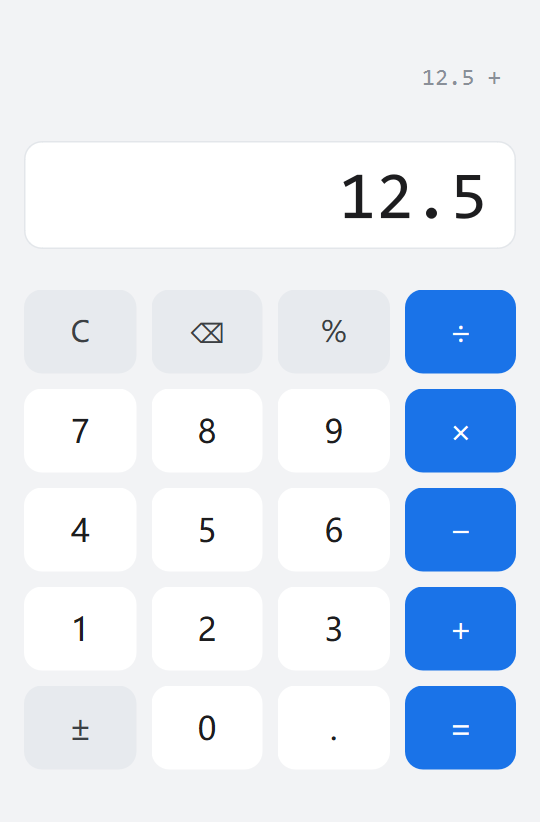
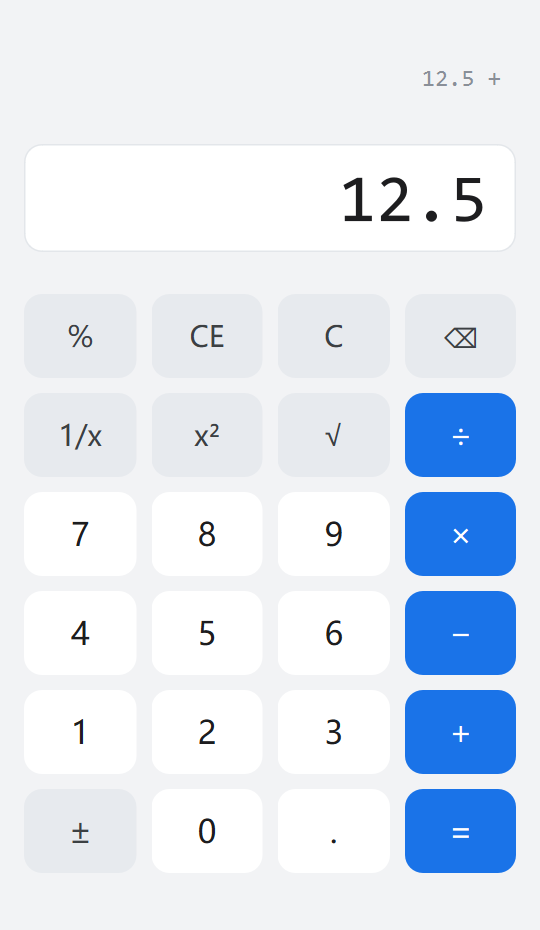
补上倒数、平方、开方和 CE 键

diff --git a/Calculator/tools/Demo/main.cpp b/Calculator/tools/Demo/main.cpp
@@ -32,7 +32,7 @@ const std::vector<Step> kScript = {
     {900,  false, 0, "pushButton_Add"},
     {900,  false, 0, "pushButton_3"},
     {900,  false, 0, "pushButton_Equal"},
-    {3500, false, 0, "pushButton_Clear"},
+    {2500, false, 0, "pushButton_Clear"},
     // ---- 键盘：45.6 − 12.3 = 33.3 ----
     {1500, true, Qt::Key_4, nullptr},
     {600,  true, Qt::Key_5, nullptr},
@@ -44,13 +44,13 @@ const std::vector<Step> kScript = {
     {600,  true, Qt::Key_Period, nullptr},
     {600,  true, Qt::Key_3, nullptr},
     {800,  true, Qt::Key_Return, nullptr},
-    {3500, false, 0, "pushButton_Clear"},
+    {2500, false, 0, "pushButton_Clear"},
     // ---- 键盘：9 × 6 = 54 ----
     {1200, true, Qt::Key_9, nullptr},
     {700,  true, Qt::Key_Asterisk, nullptr},
     {700,  true, Qt::Key_6, nullptr},
     {700,  true, Qt::Key_Return, nullptr},
-    {3000, false, 0, "pushButton_Clear"},
+    {2500, false, 0, "pushButton_Clear"},
     // ---- 退格：12345 → 123 ----
     {1200, false, 0, "pushButton_1"},
     {500,  false, 0, "pushButton_2"},
@@ -65,7 +65,7 @@ const std::vector<Step> kScript = {
     {700,  false, 0, "pushButton_Divide"},
     {700,  false, 0, "pushButton_0"},
     {800,  false, 0, "pushButton_Equal"},
-    {3500, false, 0, "pushButton_Clear"},
+    {2500, false, 0, "pushButton_Clear"},
     // ---- 连续运算：2 + 3 + 4 = 9 ----
     {1500, false, 0, "pushButton_2"},
     {700,  false, 0, "pushButton_Add"},
@@ -73,7 +73,7 @@ const std::vector<Step> kScript = {
     {900,  false, 0, "pushButton_Add"},
     {700,  false, 0, "pushButton_4"},
     {800,  false, 0, "pushButton_Equal"},
-    {3000, false, 0, "pushButton_Clear"},
+    {2500, false, 0, "pushButton_Clear"},
     // ---- 连按等号：2 + 3 = 5, = 8, = 11 ----
     {1500, false, 0, "pushButton_2"},
     {700,  false, 0, "pushButton_Add"},
@@ -81,18 +81,49 @@ const std::vector<Step> kScript = {
     {800,  false, 0, "pushButton_Equal"},
     {1200, false, 0, "pushButton_Equal"},
     {1200, false, 0, "pushButton_Equal"},
-    {3000, false, 0, "pushButton_Clear"},
+    {2500, false, 0, "pushButton_Clear"},
     // ---- 重复小数点：7 . . 8 → 7.8 ----
     {1500, false, 0, "pushButton_7"},
     {800,  false, 0, "pushButton_Point"},
     {800,  false, 0, "pushButton_Point"},
     {800,  false, 0, "pushButton_8"},
-    {3500, false, 0, "pushButton_Clear"},
+    {2500, false, 0, "pushButton_Clear"},
+    // ---- 科学键：81 √ = 9 ----
+    {2000, false, 0, "pushButton_8"},
+    {500,  false, 0, "pushButton_1"},
+    {800,  false, 0, "pushButton_Sqrt"},
+    {2200, false, 0, "pushButton_Clear"},
+    // ---- 科学键：9 x² = 81 ----
+    {1200, false, 0, "pushButton_9"},
+    {800,  false, 0, "pushButton_Square"},
+    {2200, false, 0, "pushButton_Clear"},
+    // ---- 科学键：8 1/x = 0.125 ----
+    {1200, false, 0, "pushButton_8"},
+    {800,  false, 0, "pushButton_Inverse"},
+    {2200, false, 0, "pushButton_Clear"},
+    // ---- CE：12 + 3 CE 4 = 16 ----
+    {1200, false, 0, "pushButton_1"},
+    {500,  false, 0, "pushButton_2"},
+    {700,  false, 0, "pushButton_Add"},
+    {500,  false, 0, "pushButton_3"},
+    {1000, false, 0, "pushButton_ClearEntry"},
+    {700,  false, 0, "pushButton_4"},
+    {700,  false, 0, "pushButton_Equal"},
+    {2500, false, 0, "pushButton_Clear"},
+    // ---- 键盘科学键：36 @ √、12 q 平方 ----
+    {1500, true, Qt::Key_3, nullptr},
+    {500,  true, Qt::Key_6, nullptr},
+    {700,  true, Qt::Key_At, nullptr},
+    {2200, false, 0, "pushButton_Clear"},
+    {1200, true, Qt::Key_1, nullptr},
+    {500,  true, Qt::Key_2, nullptr},
+    {700,  true, Qt::Key_Q, nullptr},
+    {2500, false, 0, "pushButton_Clear"},
     {2000, false, 0, nullptr},   // 收尾停顿
 };
 
-/** 演示节奏系数：整体放慢，便于观众跟随（2 = 每步时长加倍） */
-constexpr int kSpeedFactor = 2;
+/** 演示节奏系数：整体放慢，便于观众跟随 */
+constexpr double kSpeedFactor = 1.5;
 
 } // namespace
 
@@ -127,12 +158,12 @@ int main(int argc, char *argv[])
         }
 
         if (index < static_cast<int>(kScript.size())) {
-            timer->start(kScript[index].delayMs * kSpeedFactor);
+            timer->start(qRound(kScript[index].delayMs * kSpeedFactor));
         } else {
             QTimer::singleShot(500, &window, []() { QApplication::quit(); });
         }
     });
 
-    timer->start(kScript.front().delayMs * kSpeedFactor);
+    timer->start(qRound(kScript.front().delayMs * kSpeedFactor));
     return app.exec();
 }

diff --git a/Calculator/tests/SelfCheck/main.cpp b/Calculator/tests/SelfCheck/main.cpp
@@ -61,6 +61,9 @@ Qt::Key parseKey(const QString &text)
         {QStringLiteral("Escape"), Qt::Key_Escape},
         {QStringLiteral("Delete"), Qt::Key_Delete},
         {QStringLiteral("Percent"), Qt::Key_Percent},
+        {QStringLiteral("R"), Qt::Key_R},
+        {QStringLiteral("Q"), Qt::Key_Q},
+        {QStringLiteral("At"), Qt::Key_At},
     };
     return table.value(text, Qt::Key_unknown);
 }
@@ -71,6 +74,10 @@ const QString kEqualButton = QStringLiteral("pushButton_Equal");
 const QString kPointButton = QStringLiteral("pushButton_Point");
 const QString kPercentButton = QStringLiteral("pushButton_Percent");
 const QString kSignButton = QStringLiteral("pushButton_Sign");
+const QString kInverseButton = QStringLiteral("pushButton_Inverse");
+const QString kSquareButton = QStringLiteral("pushButton_Square");
+const QString kSqrtButton = QStringLiteral("pushButton_Sqrt");
+const QString kClearEntryButton = QStringLiteral("pushButton_ClearEntry");
 
 QString digitButton(int n)
 {
@@ -125,6 +132,20 @@ int main(int argc, char *argv[])
         {QStringLiteral("键盘小键盘数字与回车"),{QStringLiteral("Key:7"), QStringLiteral("Key:8"), QStringLiteral("Key:Slash"), QStringLiteral("Key:2"), QStringLiteral("Key:Return")}, QStringLiteral("39")},
         {QStringLiteral("鼠标键盘混合输入"),    {digitButton(1), digitButton(0), QStringLiteral("Key:Minus"), digitButton(4), QStringLiteral("Key:Equal")}, QStringLiteral("6")},
         {QStringLiteral("键盘乘除符号"),        {QStringLiteral("Key:6"), QStringLiteral("Key:Asterisk"), QStringLiteral("Key:7"), QStringLiteral("Key:Equal")}, QStringLiteral("42")},
+        {QStringLiteral("倒数"),                {digitButton(8), kInverseButton}, QStringLiteral("0.125")},
+        {QStringLiteral("倒数为零报错"),        {digitButton(0), kInverseButton}, QStringLiteral("除数不能为零")},
+        {QStringLiteral("倒数后接运算"),        {digitButton(8), kInverseButton, opButton("+"), digitButton(1), kEqualButton}, QStringLiteral("1.125")},
+        {QStringLiteral("平方"),                {digitButton(9), kSquareButton}, QStringLiteral("81")},
+        {QStringLiteral("负数平方"),            {digitButton(5), kSignButton, kSquareButton}, QStringLiteral("25")},
+        {QStringLiteral("开平方"),              {digitButton(8), digitButton(1), kSqrtButton}, QStringLiteral("9")},
+        {QStringLiteral("负数开方报错"),        {digitButton(5), kSignButton, kSqrtButton}, QStringLiteral("无效输入")},
+        {QStringLiteral("开方后接运算"),        {digitButton(8), digitButton(1), kSqrtButton, opButton("+"), digitButton(1), kEqualButton}, QStringLiteral("10")},
+        {QStringLiteral("平方后开方还原"),      {digitButton(7), kSquareButton, kSqrtButton}, QStringLiteral("7")},
+        {QStringLiteral("CE只清当前操作数"),    {digitButton(1), digitButton(2), opButton("+"), digitButton(3), kClearEntryButton, digitButton(4), kEqualButton}, QStringLiteral("16")},
+        {QStringLiteral("CE后再退格无效"),      {digitButton(1), digitButton(2), kClearEntryButton, kBackspaceButton}, QStringLiteral("0")},
+        {QStringLiteral("键盘r触发倒数"),       {QStringLiteral("Key:8"), QStringLiteral("Key:R")}, QStringLiteral("0.125")},
+        {QStringLiteral("键盘q触发平方"),       {QStringLiteral("Key:9"), QStringLiteral("Key:Q")}, QStringLiteral("81")},
+        {QStringLiteral("键盘@触发开方"),       {QStringLiteral("Key:8"), QStringLiteral("Key:1"), QStringLiteral("Key:At")}, QStringLiteral("9")},
     };
 
     int passed = 0;

diff --git a/Calculator/mainwindow.cpp b/Calculator/mainwindow.cpp
@@ -76,6 +76,14 @@ void MainWindow::onButtonClicked()
         toggleSign();
     } else if (name == QStringLiteral("pushButton_Percent")) {
         applyPercent();
+    } else if (name == QStringLiteral("pushButton_ClearEntry")) {
+        clearEntry();
+    } else if (name == QStringLiteral("pushButton_Inverse")) {
+        applyInverse();
+    } else if (name == QStringLiteral("pushButton_Square")) {
+        applySquare();
+    } else if (name == QStringLiteral("pushButton_Sqrt")) {
+        applySqrt();
     } else if (name == QStringLiteral("pushButton_Add")) {
         applyOperator(QStringLiteral("+"));
     } else if (name == QStringLiteral("pushButton_Subtract")) {
@@ -150,6 +158,19 @@ void MainWindow::keyPressEvent(QKeyEvent *event)
         break;
     case Qt::Key_Delete:
         clearEntry();
+        flashButton(ui->pushButton_ClearEntry);
+        break;
+    case Qt::Key_R:          // r → 1/x（与 Windows 计算器一致）
+        applyInverse();
+        flashButton(ui->pushButton_Inverse);
+        break;
+    case Qt::Key_Q:          // q → x²
+        applySquare();
+        flashButton(ui->pushButton_Square);
+        break;
+    case Qt::Key_At:         // @ → √
+        applySqrt();
+        flashButton(ui->pushButton_Sqrt);
         break;
     default:
         QMainWindow::keyPressEvent(event);   // 其他按键（Tab、Alt 等）交给基类
@@ -381,6 +402,59 @@ void MainWindow::applyPercent()
 }
 
 /**
+ * @brief 倒数 1/x：x 为 0 时无法计算，转入错误状态
+ */
+void MainWindow::applyInverse()
+{
+    if (m_hasError) {
+        return;
+    }
+    const double value = m_currentInput.toDouble();
+    ui->labelExpression->setText(QStringLiteral("1/(%1)").arg(formatResult(value)));
+    if (qFuzzyIsNull(value)) {
+        enterErrorState(tr("除数不能为零"));
+        return;
+    }
+    m_currentInput = formatResult(1.0 / value);
+    m_waitingForNewOperand = true;
+    updateDisplay();
+}
+
+/**
+ * @brief 平方 x²
+ */
+void MainWindow::applySquare()
+{
+    if (m_hasError) {
+        return;
+    }
+    const double value = m_currentInput.toDouble();
+    ui->labelExpression->setText(QStringLiteral("sqr(%1)").arg(formatResult(value)));
+    m_currentInput = formatResult(value * value);
+    m_waitingForNewOperand = true;
+    updateDisplay();
+}
+
+/**
+ * @brief 开平方 √：负数开方无实数解，转入错误状态
+ */
+void MainWindow::applySqrt()
+{
+    if (m_hasError) {
+        return;
+    }
+    const double value = m_currentInput.toDouble();
+    ui->labelExpression->setText(QStringLiteral("√(%1)").arg(formatResult(value)));
+    if (value < 0) {
+        enterErrorState(tr("无效输入"));
+        return;
+    }
+    m_currentInput = formatResult(std::sqrt(value));
+    m_waitingForNewOperand = true;
+    updateDisplay();
+}
+
+/**
  * @brief 刷新主显示屏内容
  */
 void MainWindow::updateDisplay()
@@ -457,8 +531,12 @@ void MainWindow::applyStyleSheet()
     setRole(ui->pushButton_Divide, "operator");
     setRole(ui->pushButton_Equal, "equal");
     setRole(ui->pushButton_Clear, "function");
+    setRole(ui->pushButton_ClearEntry, "function");
     setRole(ui->pushButton_Backspace, "function");
     setRole(ui->pushButton_Percent, "function");
+    setRole(ui->pushButton_Inverse, "function");
+    setRole(ui->pushButton_Square, "function");
+    setRole(ui->pushButton_Sqrt, "function");
     setRole(ui->pushButton_Sign, "function");
 
     setStyleSheet(QStringLiteral(R"(

diff --git a/Calculator/mainwindow.h b/Calculator/mainwindow.h
@@ -47,6 +47,9 @@ private:
     void calculateEqual();
     void toggleSign();
     void applyPercent();
+    void applyInverse();  // 1/x 倒数
+    void applySquare();   // x² 平方
+    void applySqrt();     // √ 开平方
 
     // ===== 辅助函数 =====
     void setupConnections();      // 建立信号与槽的关联
